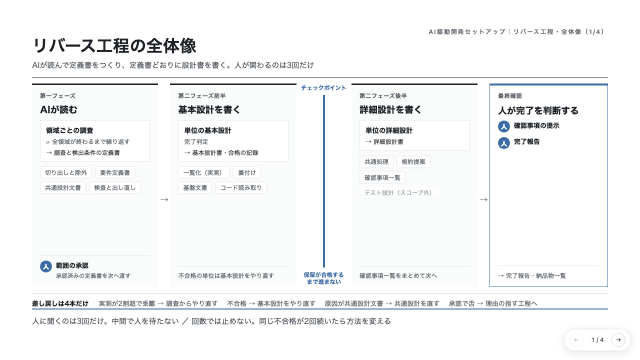
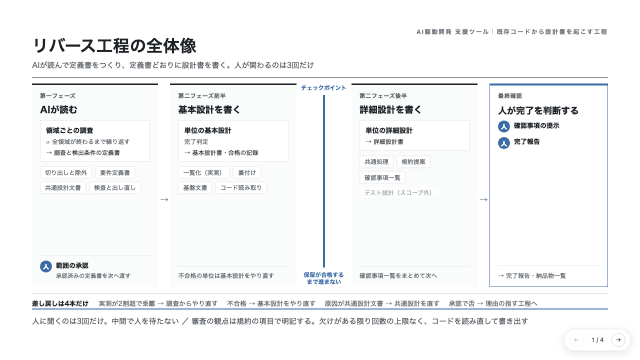
【修正】リバース工程の4枚の右上の文言を「AI駆動開発 支援ツール｜既存コードから設計書を起こす工程」で揃える

Changed region(s): [[0.2812, 0.8861, 0.8438, 0.9167], [0.6562, 0.0611, 0.9375, 0.1222]]

diff --git a/slides/リバース工程-二フェーズの流れ/解説スライド.html b/slides/リバース工程-二フェーズの流れ/解説スライド.html
@@ -101,7 +101,7 @@
 
   <section class="slide-page is-active" data-slide-page="1">
     <header class="slide-header">
-      <span class="kicker">AI駆動開発セットアップ｜リバース工程・全体像（1/4）</span>
+      <span class="kicker">AI駆動開発 支援ツール｜<wbr>既存コードから設計書を起こす工程</span>
       <h1 class="slide-title">リバース工程の全体像</h1>
       <p class="slide-subtitle">AIが読んで定義書をつくり、定義書どおりに設計書を書く。人が関わるのは3回だけ</p>
     </header>
@@ -189,7 +189,7 @@
 
   <section class="slide-page" data-slide-page="2">
     <header class="slide-header">
-      <span class="kicker">AI駆動開発セットアップ｜リバース工程・骨格（2/4）</span>
+      <span class="kicker">AI駆動開発 支援ツール｜<wbr>既存コードから設計書を起こす工程</span>
       <h1 class="slide-title">リバース工程 — 30秒でわかる骨格</h1>
       <p class="slide-subtitle">2フェーズ・1つのチェックポイント・3回の人の判断で全体をつかむ</p>
     </header>
@@ -239,7 +239,7 @@
 
   <section class="slide-page" data-slide-page="3">
     <header class="slide-header">
-      <span class="kicker">AI駆動開発セットアップ｜リバース工程・全19工程（3/4）</span>
+      <span class="kicker">AI駆動開発 支援ツール｜<wbr>既存コードから設計書を起こす工程</span>
       <h1 class="slide-title">全19工程と出力物</h1>
       <p class="slide-subtitle">第一フェーズ7工程と第二フェーズ12工程。【人】が付く3工程だけ人が動く</p>
     </header>
@@ -278,7 +278,7 @@
 
   <section class="slide-page" data-slide-page="4">
     <header class="slide-header">
-      <span class="kicker">AI駆動開発セットアップ｜リバース工程・メッセージ（4/4）</span>
+      <span class="kicker">AI駆動開発 支援ツール｜<wbr>既存コードから設計書を起こす工程</span>
       <h1 class="slide-title">基本設計を全単位で閉じるまで、詳細設計は始まらない</h1>
       <p class="slide-subtitle">リバース工程の全体像 — 人が判断するのは3回だけ</p>
     </header>

diff --git a/slides/作業ディレクトリ配置-3種比較/解説スライド.html b/slides/作業ディレクトリ配置-3種比較/解説スライド.html
@@ -64,7 +64,7 @@
 
   <section class="slide-page is-active" data-slide-page="1">
     <header class="slide-header">
-      <span class="kicker">AI駆動開発セットアップ｜<wbr>作業フォルダ</span>
+      <span class="kicker">AI駆動開発 支援ツール｜<wbr>既存コードから設計書を起こす工程</span>
       <h1 class="slide-title">作業で<wbr>使うフォルダは、<wbr>役割で<wbr>3つに分かれる</h1>
       <p class="slide-subtitle">支援ツールの<wbr>フォルダ・<wbr>対象プロジェクトの<wbr>フォルダ・<wbr>対象プロジェクトの<wbr>フォルダに<wbr>含めない出力の<wbr>置き場</p>
     </header>
@@ -113,7 +113,7 @@
 
   <section class="slide-page" data-slide-page="2">
     <header class="slide-header">
-      <span class="kicker">AI駆動開発セットアップ｜<wbr>対象プロジェクトの<wbr>フォルダの中</span>
+      <span class="kicker">AI駆動開発 支援ツール｜<wbr>既存コードから設計書を起こす工程</span>
       <h1 class="slide-title">対象プロジェクトの<wbr>フォルダの中：<wbr>直下に<wbr>足すのは4種</h1>
       <p class="slide-subtitle">docsには<wbr>AIが<wbr>読む定義だけを<wbr>置く。<wbr>記録と<wbr>確認事項は<wbr>別の場所に出す</p>
     </header>
@@ -158,7 +158,7 @@
 
   <section class="slide-page" data-slide-page="3">
     <header class="slide-header">
-      <span class="kicker">AI駆動開発セットアップ｜<wbr>出力の<wbr>置き場</span>
+      <span class="kicker">AI駆動開発 支援ツール｜<wbr>既存コードから設計書を起こす工程</span>
       <h1 class="slide-title">確認・<wbr>記録・<wbr>一時ファイルは、<wbr>対象プロジェクトのフォルダに<wbr>入れない</h1>
       <p class="slide-subtitle">確認事項は<wbr>開発チームが<wbr>回答し、<wbr>支援ツールの<wbr>機能が<wbr>対象プロジェクトの<wbr>設計書へ<wbr>書き戻す</p>
     </header>

diff --git a/index.html b/index.html
@@ -1647,8 +1647,8 @@ const SLIDES = [
     "has_prompt": false,
     "template": "",
     "date": "2026-09-03",
-    "updated": "2026-09-04",
-    "updatedAt": "2026-09-04T20:35:13+09:00"
+    "updated": "2026-09-06",
+    "updatedAt": "2026-09-06T18:11:39+09:00"
   },
   {
     "key": "AI駆動開発コンサル-業務要件",
@@ -1729,8 +1729,8 @@ const SLIDES = [
     "has_prompt": false,
     "template": "",
     "date": "2026-09-03",
-    "updated": "2026-09-03",
-    "updatedAt": "2026-09-03T08:47:36+09:00"
+    "updated": "2026-09-06",
+    "updatedAt": "2026-09-06T18:11:39+09:00"
   },
   {
     "key": "作業ディレクトリ配置-3種比較",
@@ -1755,8 +1755,8 @@ const SLIDES = [
     "has_prompt": false,
     "template": "",
     "date": "2026-09-03",
-    "updated": "2026-09-04",
-    "updatedAt": "2026-09-04T19:49:53+09:00"
+    "updated": "2026-09-06",
+    "updatedAt": "2026-09-06T18:11:39+09:00"
   },
   {
     "key": "リバース工程-基本設計の完了判定",
@@ -1782,7 +1782,7 @@ const SLIDES = [
     "template": "",
     "date": "2026-09-06",
     "updated": "2026-09-06",
-    "updatedAt": "2026-09-06T14:22:47+09:00"
+    "updatedAt": "2026-09-06T18:11:39+09:00"
   }
 ];
 const PACKS = [

diff --git a/slides/リバース工程-基本設計の完了判定/解説スライド.html b/slides/リバース工程-基本設計の完了判定/解説スライド.html
@@ -42,7 +42,7 @@
 
   <section class="slide-page is-active" data-slide-page="1">
     <header class="slide-header">
-      <span class="kicker">AI駆動開発セットアップ｜リバース工程</span>
+      <span class="kicker">AI駆動開発 支援ツール｜<wbr>既存コードから設計書を起こす工程</span>
       <h1 class="slide-title">リバース工程で基本設計から詳細設計へ進む条件</h1>
       <p class="slide-subtitle">合格の条件は、規約が定める6項目をすべて満たしていること。不合格は名指しされた項目だけ直して、再判定する。</p>
     </header>

diff --git a/slides/リバース工程-要件定義から詳細設計の順序/解説スライド.html b/slides/リバース工程-要件定義から詳細設計の順序/解説スライド.html
@@ -41,7 +41,7 @@
 
   <section class="slide-page is-active" data-slide-page="1">
     <header class="slide-header">
-      <span class="kicker">リバース工程を規約の順序に合わせる</span>
+      <span class="kicker">AI駆動開発 支援ツール｜<wbr>既存コードから設計書を起こす工程</span>
       <h1 class="slide-title">要件定義を<wbr>先に、<wbr>基本設計を<wbr>閉じてから<wbr>詳細設計へ</h1>
       <p class="slide-subtitle">既存コードから設計書を起こす5工程の大枠。設計書の書き方の決まりが定める順序に合わせる</p>
     </header>

diff --git a/slides/リバース工程-二フェーズの流れ/検査記録.md b/slides/リバース工程-二フェーズの流れ/検査記録.md
@@ -178,3 +178,7 @@
 - `verify-html-runtime.mjs`: pass（wide/narrow双方。html-runtime-horizontal-overflow・html-runtime-clipped-text・html-runtime-critical-overlap・html-runtime-contrastを含む全項目PASS）
 - 反復記録4で述べた文字数増加（41〜50字→68字）による1・2・4ページ目`.note-line`のはみ出し・重なりは発生していない
 - 件名（title）を共通名称「AI駆動開発 支援ツール — 既存コードから設計書を起こす工程：〜」に統一（ユーザー指示）
+
+## 2026-09-06: kicker を共通文言に統一
+
+kicker を共通文言に統一（ユーザー指示）

diff --git a/slides/リバース工程-基本設計の完了判定/検査記録.md b/slides/リバース工程-基本設計の完了判定/検査記録.md
@@ -37,3 +37,7 @@
 - 左の6項目の文言は元データ（`kihon_reverce.html`）の条件文と一致させること。要約・言い換えをしない
 - 「工程」「完了判定」「次の工程」の3ボックスと、不合格時に戻るSVGの矢印の向き（完了判定側から工程側への戻り）を維持すること
 - 件名（title）を共通名称「AI駆動開発 支援ツール — 既存コードから設計書を起こす工程：〜」に統一（ユーザー指示）
+
+## 2026-09-06: kicker を共通文言に統一
+
+kicker を共通文言に統一（ユーザー指示）

diff --git a/slides/作業ディレクトリ配置-3種比較/検査記録.md b/slides/作業ディレクトリ配置-3種比較/検査記録.md
@@ -4,3 +4,4 @@
 
 1. 2026-09-04 ユーザー指摘により用語統一を実施（「先方」→「対象プロジェクト」、「リポジトリ」「ディレクトリ」→「フォルダ」）。CSS のクラス名・セレクタ・フォルダ名・URL は変更対象外
 2. 2026-09-06 件名（title）を共通名称「AI駆動開発 支援ツール — 既存コードから設計書を起こす工程：〜」に統一（ユーザー指示）
+3. 2026-09-06 kicker を共通文言に統一（ユーザー指示）
